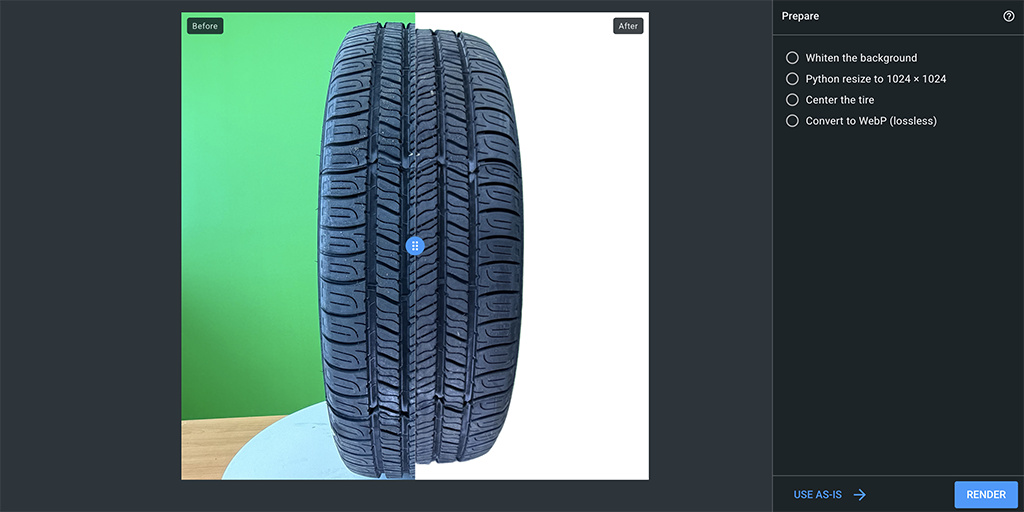
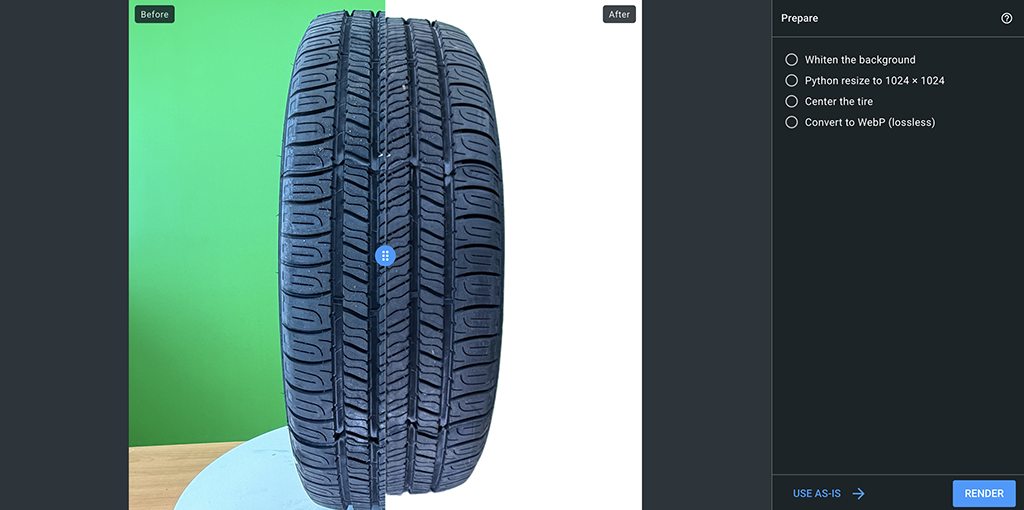
Use q-carousel's own navigation slot instead of a hand-built strip
Replaces the custom row of step buttons with QCarousel's built-in
`navigation` prop and a `navigation-icon` slot override: side arrows
stay, and each slide gets a dot below — the active one fills with
that step's own icon, inactive ones stay plain circles. Same visual
result, less custom markup, using Quasar's own carousel API as
intended.

Changed region(s): [[0.125, 0.0, 0.6562, 1.0], [0.75, 0.0294, 1.0, 0.2647], [0.75, 0.9118, 1.0, 1.0]]

diff --git a/app/components/StudioStepCarousel.vue b/app/components/StudioStepCarousel.vue
@@ -22,6 +22,7 @@ const current = computed(() => props.steps.find((s) => s.id === slide.value))
       swipeable
       infinite
       :arrows="steps.length > 1"
+      :navigation="steps.length > 1"
       transition-prev="fade"
       transition-next="fade"
       height="380px"
@@ -31,26 +32,25 @@ const current = computed(() => props.steps.find((s) => s.id === slide.value))
       <q-carousel-slide v-for="s in steps" :key="s.id" :name="s.id" class="q-pa-none">
         <q-img :src="s.image" class="fit" :ratio="16 / 9" fit="contain" />
       </q-carousel-slide>
+
+      <template #navigation-icon="{ index, active, onClick }">
+        <q-btn
+          round
+          unelevated
+          dense
+          :size="active ? 'md' : 'sm'"
+          :icon="active ? steps[index].icon : undefined"
+          class="pf-carousel__dot"
+          :class="{ 'pf-carousel__dot--active': active }"
+          @click="onClick"
+        />
+      </template>
     </q-carousel>
 
     <div class="pf-carousel__caption">
       <q-icon :name="current?.icon" size="22px" class="pf-carousel__icon" />
       <span class="pf-carousel__step-label">{{ current?.label }}</span>
       <span class="pf-carousel__text">{{ current?.text }}</span>
-    </div>
-
-    <div v-if="steps.length > 1" class="pf-carousel__strip">
-      <button
-        v-for="s in steps"
-        :key="s.id"
-        type="button"
-        class="pf-carousel__step"
-        :class="{ 'pf-carousel__step--active': s.id === slide }"
-        @click="slide = s.id"
-      >
-        <q-icon :name="s.icon" size="20px" />
-        <span>{{ s.label }}</span>
-      </button>
     </div>
   </div>
 </template>
@@ -59,6 +59,19 @@ const current = computed(() => props.steps.find((s) => s.id === slide.value))
 .pf-carousel {
   &__frame {
     background: var(--pf-surface-2);
+  }
+
+  /* why-no-Quasar: q-btn has no "outlined circle vs filled circle with icon" variant built in */
+  &__dot {
+    background: transparent;
+    border: 2px solid rgba(255, 255, 255, 0.5);
+    color: transparent;
+
+    &--active {
+      background: var(--c);
+      border-color: var(--c);
+      color: var(--pf-on-accent);
+    }
   }
 
   &__caption {
@@ -87,44 +100,6 @@ const current = computed(() => props.steps.find((s) => s.id === slide.value))
     font-size: 17px;
     line-height: 1.5;
     color: var(--pf-text);
-  }
-
-  &__strip {
-    display: flex;
-    flex-wrap: wrap;
-    gap: 8px;
-    margin-top: 18px;
-  }
-
-  &__step {
-    display: flex;
-    align-items: center;
-    gap: 6px;
-    font-family: var(--pf-font);
-    font-size: 12px;
-    font-weight: 600;
-    padding: 7px 12px;
-    border-radius: var(--pf-radius-control);
-    border: 1px solid var(--pf-line);
-    background: var(--pf-surface);
-    color: var(--pf-muted);
-    cursor: pointer;
-    transition: all 0.15s;
-
-    :deep(.q-icon) {
-      color: inherit;
-    }
-
-    &:hover {
-      border-color: var(--c);
-      color: var(--pf-text);
-    }
-
-    &--active {
-      background: var(--c);
-      border-color: var(--c);
-      color: var(--pf-on-accent);
-    }
   }
 }
 </style>
